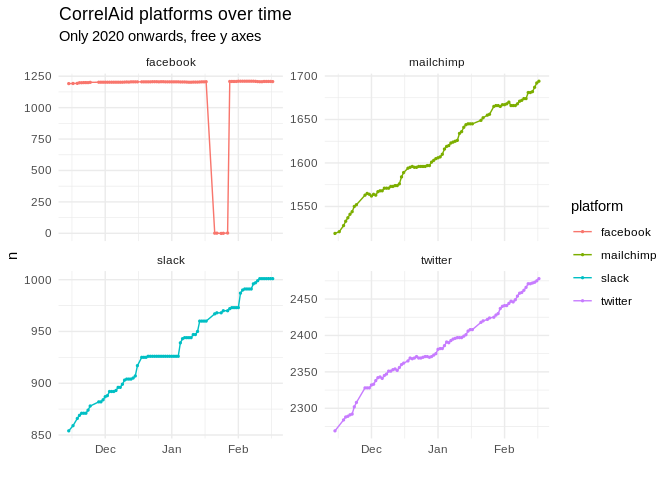
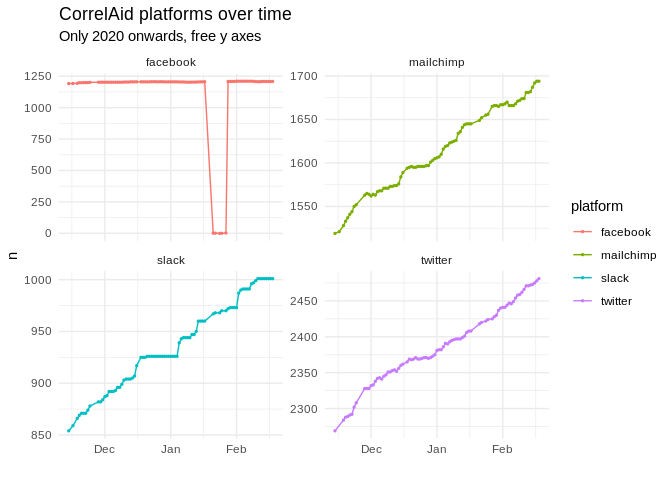
🤖 CRON - update daily data

diff --git a/README.md b/README.md
@@ -25,8 +25,8 @@ count and general network data on a daily basis using
 
 ### Plots
 
-*last updated*: 2021-02-17
-23:50:15
+*last updated*: 2021-02-18
+23:50:19
 
 ![](README_files/figure-gfm/plot-alltime-1.png)<!-- -->
 
